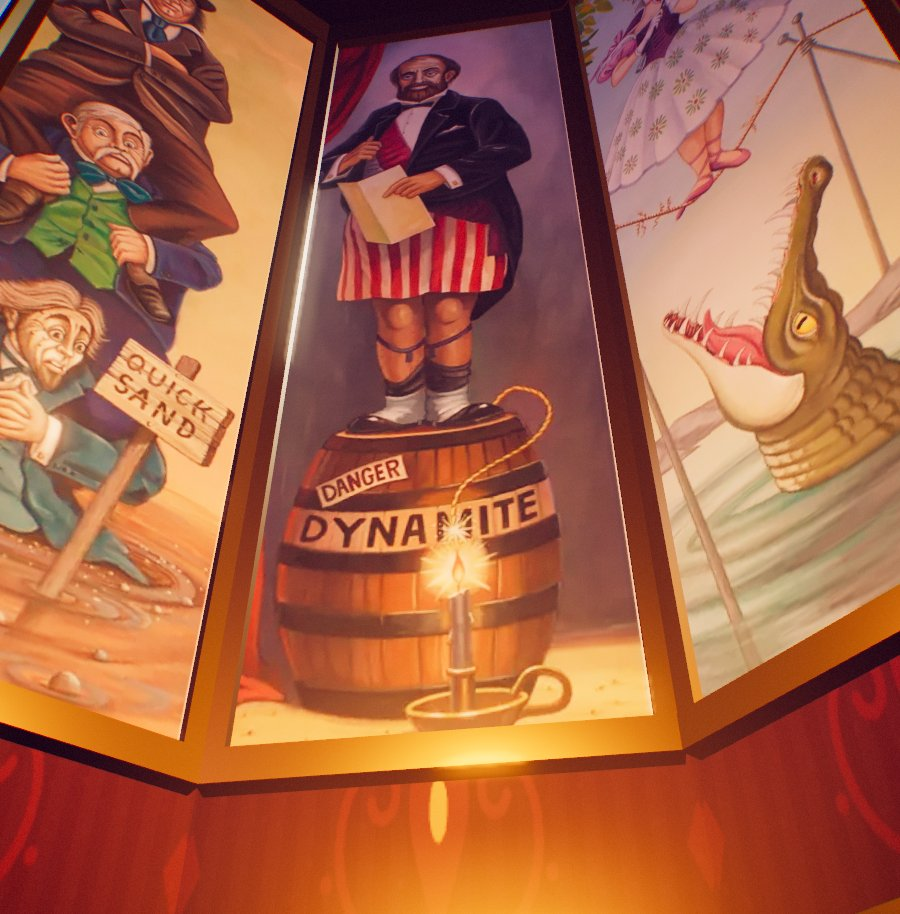
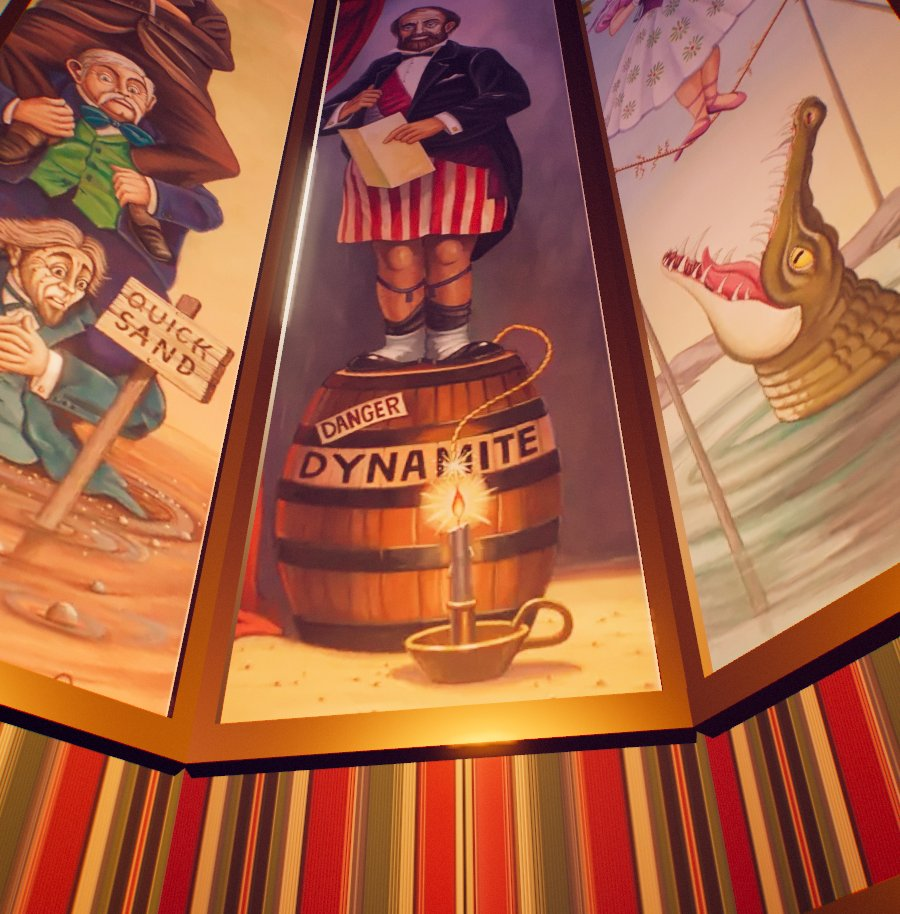
Stretching Room striped wallpaper
The Stretching Room's walls now carry the ride's striped wallpaper. The
stripes are redrawn from a photo by averaging each column of pixels, which
drops the photo's noise and uneven light, and averaging its two repeats
(373 px each). The result is a lossless strip under 1 KB. Because the
stripes are vertical, they stay crisp when the room stretches.

The fallback for the tower (when assets/art/ is missing, or with ?art=0)
is now an original striped paper in the same palette instead of the red
damask. The prep script finds the Endless Hall source by its new name,
hm_wallpaper.jpg. The README credits and the Stretching Room screenshot
are updated.

diff --git a/js/art.js b/js/art.js
@@ -1,5 +1,5 @@
-// Official artwork, prepared by tools/prepare_art.py: the Stretching Room's four portraits and the
-// ride's wallpaper for the Endless Hall. If the files are missing or fail to load, the house keeps its
+// Official artwork, prepared by tools/prepare_art.py: the Stretching Room's four portraits and striped
+// wallpaper, and the ride's wallpaper for the Endless Hall. If the files are missing or fail to load, the house keeps its
 // own painted portraits and wallpaper, so deleting assets/art/ is all it takes to go back to them.
 import { THREE } from './core.js';
 import { T, MAT } from './materials.js';
@@ -7,16 +7,17 @@ import { T, MAT } from './materials.js';
 const DIR = './assets/art/';
 const PORTRAITS = ['tightrope', 'dynamite', 'quicksand', 'widow'];   // the order of T.stretch
 const WALLPAPER_WIDTH = 1.5;                                           // world units per repeat, across
+const STRIPES_WIDTH = 1.6;
 
 export function loadOfficialArt() {
   const tl = new THREE.TextureLoader();
   const load = (f) => tl.loadAsync(`${DIR}${f}.webp`);
-  return Promise.all([...PORTRAITS.map((p) => load(`stretch-${p}`)), load('wallpaper'), load('wallpaper-glow')])
-    .then((t) => ({ portraits: t.slice(0, PORTRAITS.length), wallpaper: t[PORTRAITS.length], glow: t[PORTRAITS.length + 1] }));
+  return Promise.all([...PORTRAITS.map((p) => load(`stretch-${p}`)), load('wallpaper'), load('wallpaper-glow'), load('stretch-wallpaper')])
+    .then((t) => ({ portraits: t.slice(0, PORTRAITS.length), wallpaper: t[PORTRAITS.length], glow: t[PORTRAITS.length + 1], stripes: t[PORTRAITS.length + 2] }));
 }
 
 // Call after buildMaterials() and before the house is built.
-export function applyOfficialArt({ portraits, wallpaper, glow }) {
+export function applyOfficialArt({ portraits, wallpaper, glow, stripes }) {
   for (const t of portraits) { t.colorSpace = THREE.SRGBColorSpace; t.anisotropy = 8; }
   T.stretch = portraits;
   T.stretchGlow = 0.05;      // these paintings are much lighter than the house's own
@@ -26,4 +27,9 @@ export function applyOfficialArt({ portraits, wallpaper, glow }) {
   m.emissiveMap = glow;
   m.userData.uvScale = [WALLPAPER_WIDTH, WALLPAPER_WIDTH * wallpaper.image.height / wallpaper.image.width];
   m.needsUpdate = true;
+  stripes.colorSpace = THREE.SRGBColorSpace; stripes.wrapS = stripes.wrapT = THREE.RepeatWrapping; stripes.anisotropy = 16;
+  const tower = MAT.papTower;
+  tower.map = stripes;
+  tower.userData.uvScale = [STRIPES_WIDTH, STRIPES_WIDTH * stripes.image.height / stripes.image.width];
+  tower.needsUpdate = true;
 }

diff --git a/js/tex.js b/js/tex.js
@@ -129,6 +129,23 @@ export function damask(bg = '#3d1a2a', fg = '#5e2a3e', { stripe = true, accent =
 }
 
 // The famous eye-filled wallpaper (our own take): scrollwork faces with glowing eyes.
+// The Stretching Room's wallpaper: regency stripes in oxblood, sage, gold, slate and soot, finely ribbed.
+export function stripes() {
+  const W = 256, H = 256;
+  const [c, ctx] = cnv(W, H);
+  const seq = [['#7c1f24', 34], ['#c2a25a', 3], ['#2e2a24', 4], ['#c2a25a', 3], ['#46603f', 22], ['#5a5f6e', 5], ['#46603f', 10],
+    ['#c2a25a', 6], ['#1f1c18', 8], ['#7c1f24', 18], ['#a8323a', 6], ['#7c1f24', 18], ['#c2a25a', 2], ['#46603f', 30],
+    ['#c2a25a', 4], ['#2e2a24', 10], ['#c2a25a', 4], ['#5a5f6e', 8], ['#7c1f24', 30], ['#c2a25a', 3], ['#46603f', 18], ['#1f1c18', 6], ['#c2a25a', 4]];
+  let x = 0;
+  for (const [col, w] of seq) {
+    ctx.fillStyle = col; ctx.fillRect(x, 0, w, H);
+    if (w >= 18) { ctx.fillStyle = 'rgba(0,0,0,0.12)'; for (let k = x + 2; k < x + w - 1; k += 3) ctx.fillRect(k, 0, 1, H); }   // ribbing
+    x += w;
+  }
+  grain(ctx, W, H, 0.04, 1500);
+  return tex(c);
+}
+
 // The Endless Hall's wallpaper: a lavender damask of hooded wardens, bat-winged imps and little peepers whose white eyes glow
 // in the dark (the emissive map). One repeat is 256x512 with every other row shifted half a repeat.
 export function hauntPaper() {

diff --git a/js/materials.js b/js/materials.js
@@ -33,7 +33,7 @@ export function buildMaterials() {
   T.papSeance = TX.damask('#24163a', '#3a2358', { accent: '#7a5aa0' });
   T.papBall = TX.damask('#55293f', '#74405a', { accent: '#c9a24a' });
   T.papAttic = TX.damask('#353b4a', '#41495c', { stripe: false });
-  T.papTower = TX.damask('#4a1420', '#68202f', { accent: '#c9a24a' });
+  T.papTower = TX.stripes();
   T.papBase = TX.damask('#1e1630', '#2c2046', { stripe: false });
   T.wainscot = TX.wainscot('#3a2216');
   T.wainscotDark = TX.wainscot('#24140c');
@@ -107,7 +107,7 @@ export function buildMaterials() {
   MAT.papSeance = texMat(T.papSeance, { uv: 2.4 });
   MAT.papBall = texMat(T.papBall, { uv: 2.6 });
   MAT.papAttic = texMat(T.papAttic, { uv: 2.4 });
-  MAT.papTower = texMat(T.papTower, { uv: 2.0 });
+  MAT.papTower = texMat(T.papTower, { uv: 1.6 });
   MAT.papBase = texMat(T.papBase, { uv: 2.2 });
   MAT.wainscot = texMat(T.wainscot, { uv: 2.4 });
   MAT.wainscotDark = texMat(T.wainscotDark, { uv: 2.4 });

diff --git a/tools/prepare_art.py b/tools/prepare_art.py
@@ -1,12 +1,14 @@
-"""Prepare the official Stretching Room portraits and the Endless Hall wallpaper for the site.
+"""Prepare the official Stretching Room portraits and the wallpapers for the site.
 
     python3 tools/prepare_art.py ~/Desktop/HM
 
 Sources (not in this repo):
     2025-disney-store-strecthing-room-art{1,2,3,5}.webp   Disney Store product images of the four
                                                           stretching portraits (Disney artwork)
-    flat,750x,075,f-pad,750x1000,f8f8f8.jpg               Panicked Pixie's recreation of the ride's
+    hm_wallpaper.jpg                                      Panicked Pixie's recreation of the ride's
                                                           wallpaper, from Redbubble
+    stretch_room_wallpaper.jpg                            a photo of the Stretching Room's striped
+                                                          wallpaper
 
 Writes assets/art/:
     stretch-{tightrope,dynamite,quicksand,widow}.webp     each painting cut from its white product
@@ -15,6 +17,8 @@ Writes assets/art/:
     wallpaper.webp, wallpaper-glow.webp                   one seamless repeat of the pattern
         (204 x 408 px, a half-drop), cleaned up to its three flat colours at twice the size,
         plus a mask of the eyes, which glow in the dark
+    stretch-wallpaper.webp                                one repeat of the stripes (373 px), redrawn
+        from the photo's column averages, so the photo's noise and uneven light drop out
 
 Delete assets/art/ and the site falls back to its own painted portraits and wallpaper.
 """
@@ -38,7 +42,7 @@ for n, name in ((5, 'tightrope'), (1, 'dynamite'), (3, 'quicksand'), (2, 'widow'
 
 # ---- wallpaper: the pattern square sits at rows 125..874; it repeats every 204 px across and
 #      408 px down (rows are offset by half a repeat), so any 204x408 window tiles seamlessly
-path = (glob.glob(f'{src}/flat,*.jpg') or glob.glob(f'{src}/*.jpg'))[0]
+path = (glob.glob(f'{src}/hm_wallpaper.jpg') or glob.glob(f'{src}/flat,*.jpg'))[0]
 pattern = Image.open(path).convert('RGB').crop((0, 125, 750, 875))
 tile = pattern.crop((100, 100, 304, 508))          # well away from the seller's mark at bottom right
 big = np.asarray(tile.resize((204 * 4, 408 * 4), Image.LANCZOS)).astype(np.float32)
@@ -48,6 +52,21 @@ Image.fromarray(palette[cls].astype(np.uint8)).resize((408, 816), Image.LANCZOS)
     .save(f'{out}/wallpaper.webp', 'WEBP', quality=90, method=6)
 Image.fromarray(((cls == 2) * 255).astype(np.uint8)).resize((408, 816), Image.LANCZOS) \
     .save(f'{out}/wallpaper-glow.webp', 'WEBP', quality=90, method=6)
+
+# ---- Stretching Room stripes: purely vertical, so average each column of the photo into one colour.
+#      The sequence repeats every 373 px and the photo holds almost two repeats, which are averaged too.
+a = np.asarray(Image.open(f'{src}/stretch_room_wallpaper.jpg').convert('RGB')).astype(np.float32)
+prof = a[60:1040].mean(axis=0)
+P, n = 373, prof.shape[0]
+L = prof.mean(axis=1)
+slope = (np.median(L[P:] / L[:n - P]) - 1) / P            # the photo brightens slightly across its width
+prof = prof / (1 + slope * (np.arange(n) - n / 2))[:, None]
+stripes = prof[:P].copy()
+stripes[:n - P] = (prof[:n - P] + prof[P:]) / 2
+step = np.abs(np.diff(np.r_[stripes.mean(axis=1), stripes[:1].mean(axis=1)]))
+stripes = np.roll(stripes, -int(np.argmin(np.convolve(step, np.ones(15), mode='same'))), axis=0)   # wrap inside a broad stripe
+Image.fromarray(np.repeat(stripes[None], 16, axis=0).clip(0, 255).astype(np.uint8)) \
+    .save(f'{out}/stretch-wallpaper.webp', 'WEBP', lossless=True)
 
 for f in sorted(os.listdir(out)):
     print(f'{f:28s} {os.path.getsize(os.path.join(out, f)) // 1024:4d} KB')

diff --git a/README.md b/README.md
@@ -4,7 +4,7 @@ An interactive 3D book-nook diorama of the Haunted Mansion ride, built entirely 
 
 **▶ Visit the nook: <https://nacdwk.github.io/haunted-mansion-nook/>**
 
-*An unofficial fan tribute. The music, sound and narration are original and generated in code. The artwork is too, apart from the Stretching Room's portraits and the Endless Hall's wallpaper (see [Credits](#credits)).*
+*An unofficial fan tribute. The music, sound and narration are original and generated in code. The artwork is too, apart from the Stretching Room's portraits and wallpaper and the Endless Hall's wallpaper (see [Credits](#credits)).*
 
 ![The open nook](docs/overview.jpg)
 
@@ -89,8 +89,8 @@ Apart from the Grand Hall's baked set and the portraits and wallpaper listed und
 | `js/post.js` | Bloom, tilt-shift miniature blur and colour grade |
 | `js/ui.js` | Picking, hover labels, room panels, the dock, captions and the ride overlay |
 | `js/baked.js` | Loads the Blender-built Grand Hall and draws it with its baked light |
-| `js/art.js` | Swaps in the official Stretching Room portraits and Endless Hall wallpaper from `assets/art/`, when those files are present |
-| `tools/prepare_art.py` | Crops the portraits and cuts a seamless wallpaper tile from the source images into `assets/art/` |
+| `js/art.js` | Swaps in the official Stretching Room portraits and wallpaper and the Endless Hall wallpaper from `assets/art/`, when those files are present |
+| `tools/prepare_art.py` | Crops the portraits, cuts a seamless tile of the Endless Hall wallpaper and redraws the Stretching Room's stripes from the source images into `assets/art/` |
 | `blender/` | The Blender script that models and light-bakes the Grand Hall, and `bake.sh` to rebuild `assets/` |
 
 A few techniques keep it running at 60 fps:
@@ -129,8 +129,9 @@ The baked hall has more geometry but costs less to draw where it fills the scree
 
 - The four Stretching Room portraits are Disney's paintings of the attraction's stretching portraits, taken from Disney Store product images (© Disney).
 - The Endless Hall's wallpaper is Panicked Pixie's recreation of the attraction's wallpaper, from their Redbubble listing, after Disney's original design.
+- The Stretching Room's striped wallpaper is redrawn from a photo of the attraction's own wallpaper; its stripe colours are sampled from that photo.
 
-Both are used without permission in this non-commercial fan tribute. If you hold the rights to either and want them taken down, please open an issue. Deleting `assets/art/` puts the house's own painted portraits and its original eye-damask wallpaper back in their place, and `?art=0` shows those versions now.
+These are used without permission in this non-commercial fan tribute. If you hold the rights to either and want them taken down, please open an issue. Deleting `assets/art/` puts the house's own painted portraits, its original eye-damask wallpaper and its own striped wallpaper back in their place, and `?art=0` shows those versions now.
 
 ## Disclaimer
 
